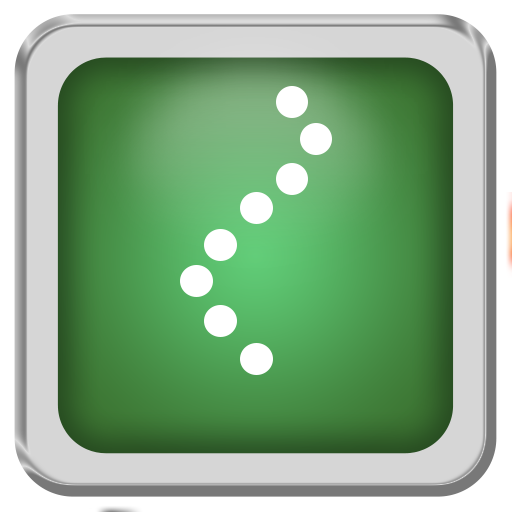
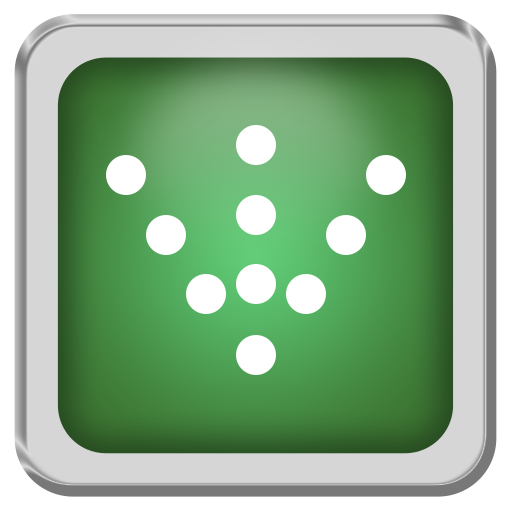
Bonuses with durations in HUD

diff --git a/Starfighter4K/src/menu/BonusWidget.cpp b/Starfighter4K/src/menu/BonusWidget.cpp
@@ -1,18 +1,22 @@
 #include "include/menu/BonusWidget.h"
 #include "include/game/BonusProjectile.h"
 #include "include/game/Bonus.h"
+#include "include/game/BonusInvicibility.h"
 #include "include/game/SpecialBonus.h"
+#include "include/game/SpecialBonusLimitedTime.h"
+#include "include/game/SpecialBonusLimitedUsage.h"
 #include "include/config/Define.h"
 #include "include/stable.h"
 
 BonusWidget::BonusWidget(QWidget *parent)
-    : QLabel(parent), cooldown(-1), state(NoBonus), bonusDuration(-1)
+    : QLabel(parent), cooldown(-1), state(NoBonus), bonusDuration(-1), initialActivations(1), remainingActivations(1)
 {
     setPixmap(QPixmap(IMAGE_BONUS));
 
     clock.setInterval(100);
     clock.setSingleShot(false);
     connect(&clock, SIGNAL(timeout()), this, SLOT(updateWidget()));
+    clock.start();
 }
 
 BonusWidget::~BonusWidget()
@@ -26,9 +30,12 @@ void BonusWidget::activate()
         return;
 
     if(bonusDuration != -1)
+    {
         elapsed.start();
-
-    state = Activated;
+        state = Activated;
+    }
+    else if(--remainingActivations <= 0)
+        deactivate();
 }
 
 void BonusWidget::deactivate()
@@ -37,6 +44,8 @@ void BonusWidget::deactivate()
     {
         setPixmap(QPixmap(IMAGE_BONUS));
         state = NoBonus;
+        bonusDuration = -1;
+        remainingActivations = 1;
     }
     else
     {
@@ -48,6 +57,7 @@ void BonusWidget::deactivate()
 void BonusWidget::setBonus(Bonus *bonus)
 {
     TypeBonus type = bonus->getTypeBonus();
+    //qDebug() << "Type : " << type;
 
     switch(type)
     {
@@ -55,10 +65,14 @@ void BonusWidget::setBonus(Bonus *bonus)
         setPixmap(QPixmap(IMAGE_BONUS_HEALTH));
         break;
     case TypeBonusInvicibility:
+        bonusDuration = ((BonusInvicibility*)bonus)->getExpiration();
         setPixmap(QPixmap(IMAGE_BONUS_INVICIBILITY));
         break;
     case TypeBonusShield:
         setPixmap(QPixmap(IMAGE_BONUS_SHIELD));
+        break;
+    case TypeBonusProjectile:
+        setBonus(dynamic_cast<BonusProjectile*>(bonus));
         break;
     default:
         setPixmap(QPixmap(IMAGE_BONUS));
@@ -70,17 +84,18 @@ void BonusWidget::setBonus(Bonus *bonus)
 
 void BonusWidget::setBonus(BonusProjectile *bonus)
 {
-    TypeBonus type = bonus->getTypeBonus();
+    TypeProjectiles type = bonus->getType();
+    //qDebug() << "Type projectile : " << type;
 
     switch(type)
     {
-    case TypeBonusProjectileCross:
+    case ProjCross:
         setPixmap(QPixmap(IMAGE_BONUS_PROJ_CROSS));
         break;
-    case TypeBonusProjectileSimple:
+    case ProjSimple:
         setPixmap(QPixmap(IMAGE_BONUS_PROJ_SIMPLE));
         break;
-    case TypeBonusProjectileV:
+    case ProjV:
         setPixmap(QPixmap(IMAGE_BONUS_PROJ_V));
         break;
     default:
@@ -89,12 +104,24 @@ void BonusWidget::setBonus(BonusProjectile *bonus)
     }
 
     bonusDuration = bonus->getExpiration();
+    //qDebug() << "Duration : " << bonusDuration;
     state = Ready;
 }
 
-void BonusWidget::setBonus(SpecialBonus *bonus, int cooldown)
+void BonusWidget::setBonus(SpecialBonus *bonus)
 {
-    this->cooldown = cooldown;
+    this->cooldown = bonus->getCooldownTime();
+    //qDebug() << "Special bonus cooldown : " << cooldown;
+
+    SpecialBonusLimitedTime* sblt = dynamic_cast<SpecialBonusLimitedTime*>(bonus);
+    if(sblt)
+        this->bonusDuration = sblt->getDuration();
+    else
+    {
+        SpecialBonusLimitedUsage* sblu = dynamic_cast<SpecialBonusLimitedUsage*>(bonus);
+        if(sblu)
+            remainingActivations = initialActivations = sblu->getInitialActivation();
+    }
 
     TypeSpecialBonus type = bonus->getTypeBonus();
     switch(type)
@@ -103,17 +130,15 @@ void BonusWidget::setBonus(SpecialBonus *bonus, int cooldown)
         setPixmap(QPixmap(IMAGE_BONUS_FREEZE));
         break;
     case TypeSpecialBonusAntiGravity:
-        // TODO: Create the image
-        //setPixmap(QPixmap(IMAGE_BONUS_ANTIGRAVITY));
-        //break;
+        setPixmap(QPixmap(IMAGE_BONUS_ANTIGRAVITY));
+        break;
     case TypeSpecialBonusGuidedMissile:
         // TODO: Create the image
         //setPixmap(QPixmap(IMAGE_BONUS_GUIDEDMISSILE));
         //break;
     case TypeSpecialBonusOmnidirectionalShot:
-        // TODO: Create the image
-        //setPixmap(QPixmap(IMAGE_BONUS_OMNIDIRECTIONALSHOT));
-        //break;
+        setPixmap(QPixmap(IMAGE_BONUS_ROOTSHOT));
+        break;
     case TypeSpecialBonusTrackingMissile:
         // TODO: Create the image
         //setPixmap(QPixmap(IMAGE_BONUS_TRACKINGMISSILE));
@@ -131,25 +156,35 @@ void BonusWidget::paintEvent(QPaintEvent *event)
 {
     QLabel::paintEvent(event);
 
-    if(state == Cooldown || state == Activated && bonusDuration != -1)
+    if(state == Cooldown || state == Activated)
     {
         QPainter p(this);
-        p.setBrush(QBrush(QColor(0, 0, 0, 127)));
+        if(state == Activated)
+            p.setBrush(QBrush(QColor(0, 0, 255, 127)));
+        else
+            p.setBrush(QBrush(QColor(0, 0, 0, 127)));
 
         const int offset = 59;
         QRect r(rect().left() + offset, rect().top() + offset, rect().width() - offset*2, rect().height() - offset*2);
         double percent;
         if(state == Cooldown)
-            percent = (cooldown - elapsed.elapsed()) / cooldown * 100.0;
-        else
-            percent = elapsed.elapsed() / bonusDuration * 100.0;
+            percent = (cooldown - elapsed.elapsed()) / (double)cooldown * 100.0;
+        else if(state == Activated)
+        {
+            if(bonusDuration == -1)
+                percent = remainingActivations / (double)initialActivations * 100.0;
+            else
+                percent = elapsed.elapsed() / (double)bonusDuration * 100.0;
+        }
+
+        //qDebug() << percent;
         p.drawPie(r, 90 * 16, 90.0 + -1.0 * percent * 3.6 * 16.0);
     }
 }
 
 void BonusWidget::updateWidget()
 {
-    if(state == Activated && elapsed.hasExpired(bonusDuration))
+    if(state == Activated && bonusDuration != -1 && elapsed.hasExpired(bonusDuration))
         deactivate();
     else if(state == Cooldown && elapsed.hasExpired(cooldown))
         state = Ready;

diff --git a/Starfighter4K/src/game/Spaceship.cpp b/Starfighter4K/src/game/Spaceship.cpp
@@ -37,6 +37,7 @@
 #include "include/game/ProjectileMulti.h"
 #include "include/game/SpecialBonusMulti.h"
 #include "include/game/SpecialBonusGuided.h"
+#include "include/game/SpecialBonusFreeze.h"
 #include "include/game/ProjectileGuided.h"
 #include "include/config/Define.h"
 
@@ -64,7 +65,7 @@ Spaceship::Spaceship(qreal _dX,qreal _dY,Shooter _player,const QString& _playerN
     if(player == Player1)
         specialBonus = new SpecialBonusAntiGravity(10000,1,Player1,gameEngine);
     else
-        specialBonus = new SpecialBonusAntiGravity(10000,1,Player2,gameEngine);
+        specialBonus = new SpecialBonusMulti(10000,5,this,gameEngine);
 
     //specialBonus = new SpecialBonusTracking(10000,2,this,gameEngine);
 
@@ -79,6 +80,9 @@ Spaceship::Spaceship(qreal _dX,qreal _dY,Shooter _player,const QString& _playerN
         dAngle = M_PI;
     timerProjectile->setSingleShot(true);
     connect(timerProjectile,SIGNAL(timeout()),this,SLOT(removeProjectileBonus()));
+
+    hud = gameEngine->displayEngine()->getHud();
+    hud->setSpecialBonus(player, specialBonus);
 }
 
 void Spaceship::setPixmap(QPixmap *_pxmPixmap)
@@ -145,7 +149,10 @@ qreal Spaceship::getPercentageSpeed() const
 void Spaceship::addBonus(Bonus *_bonus)
 {
     if(bonus == 0)
+    {
         bonus = _bonus;
+        hud->setNormalBonus(player, bonus);
+    }
 }
 
 void Spaceship::shotTrackingBonus()
@@ -176,7 +183,7 @@ void Spaceship::triggerBonus()
 {
     if(bonus != 0 && !isInvicible && type == PROJ_SPACESHIP_DEF)
     {
-        gameEngine->displayEngine()->getHud()->setNormalBonus(player, bonus);
+        hud->activateBonus(player, NormalBonus);
 
         if(BonusHP* bhp = dynamic_cast<BonusHP*>(bonus))
         {
@@ -329,4 +336,5 @@ void Spaceship::advance(int _step)
 void Spaceship::triggerSpecialAttack()
 {
     specialBonus->trigger();
+    hud->activateBonus(player, aSpecialBonus);
 }

diff --git a/Starfighter4K/src/menu/HUDWidget.cpp b/Starfighter4K/src/menu/HUDWidget.cpp
@@ -125,9 +125,27 @@ void HUDWidget::setNormalBonus(Shooter _player, Bonus* _bonus)
 void HUDWidget::setSpecialBonus(Shooter _player, SpecialBonus* _bonus)
 {
     if(_player == Player1)
-        ui->p1_specialBonus->setBonus(_bonus, 2000); // TODO: cooldown
+        ui->p1_specialBonus->setBonus(_bonus); // TODO: cooldown
     else
-        ui->p2_specialBonus->setBonus(_bonus, 2000);
+        ui->p2_specialBonus->setBonus(_bonus);
+}
+
+void HUDWidget::activateBonus(Shooter _player, Action _typeBonus)
+{
+    if(_typeBonus == NormalBonus)
+    {
+        if(_player == Player1)
+            ui->p1_normalBonus->activate();
+        else if(_player == Player2)
+            ui->p2_normalBonus->activate();
+    }
+    else if(_typeBonus == aSpecialBonus)
+    {
+        if(_player == Player1)
+            ui->p1_specialBonus->activate();
+        else if(_player == Player2)
+            ui->p2_specialBonus->activate();
+    }
 }
 
 void HUDWidget::deactivateBonus(Shooter _player, Action _typeBonus)

diff --git a/Starfighter4K/include/menu/BonusWidget.h b/Starfighter4K/include/menu/BonusWidget.h
@@ -24,7 +24,7 @@ public:
     BonusWidget(QWidget *parent = 0);
     ~BonusWidget();
     void setBonus(Bonus* bonus);
-    void setBonus(SpecialBonus* bonus, int cooldown);
+    void setBonus(SpecialBonus* bonus);
     void setBonus(BonusProjectile* bonus);
 
 protected:
@@ -34,7 +34,9 @@ private:
     QElapsedTimer elapsed;
     QTimer clock;
     int cooldown; // (ms)
-    int bonusDuration;
+    int bonusDuration; // (ms), -1 = Limited usages
+    int initialActivations;
+    int remainingActivations;
     BonusState state;
 
 public slots:

diff --git a/Starfighter4K/include/config/Define.h b/Starfighter4K/include/config/Define.h
@@ -152,6 +152,8 @@
 #define SUPERNOVA_SOUND                     "supernova.mp3"
 
 //HUD
+#define IMAGE_BONUS_ANTIGRAVITY     ":/images/bonus/antiGravity"
+#define IMAGE_BONUS_ROOTSHOT        ":/images/bonus/projRoot"
 #define IMAGE_BONUS_FREEZE          ":/images/bonus/freeze"
 #define IMAGE_BONUS_INVICIBILITY    ":/images/bonus/invicibility"
 #define IMAGE_BONUS_HEALTH          ":/images/bonus/medic"

diff --git a/Starfighter4K/include/game/Spaceship.h b/Starfighter4K/include/game/Spaceship.h
@@ -20,6 +20,7 @@ class GameEngine;
 class QTimer;
 class SpecialBonus;
 class ProjectileGuided;
+class HUDWidget;
 
 class Spaceship : public Destroyable, public Displayable
 {
@@ -75,6 +76,7 @@ private:
     void advance(int _step);
 
     GameEngine *gameEngine;
+    HUDWidget* hud;
 
     Shooter player;
 	QString playerName;

diff --git a/Starfighter4K/include/menu/HUDWidget.h b/Starfighter4K/include/menu/HUDWidget.h
@@ -25,6 +25,7 @@ public:
     void setNormalBonus(Shooter _player, Bonus* _type);
     void setSpecialBonus(Shooter _player, SpecialBonus* _type);
     void setTimer(QTime _time);
+    void activateBonus(Shooter _player, Action _typeBonus);
     void deactivateBonus(Shooter _player, Action _typeBonus);
     
 private:

diff --git a/Starfighter4K/include/enum/Enum.h b/Starfighter4K/include/enum/Enum.h
@@ -47,9 +47,6 @@ enum TypeBonus
     TypeBonusProjectile         = 1,
     TypeBonusInvicibility       = 2,
     TypeBonusShield             = 3,
-    TypeBonusProjectileCross    = 4,
-    TypeBonusProjectileV        = 5,
-    TypeBonusProjectileSimple   = 6,
     TypeBonusNothing            = 1000
 };
 

diff --git a/Starfighter4K/include/game/SpecialBonusLimitedTime.h b/Starfighter4K/include/game/SpecialBonusLimitedTime.h
@@ -10,6 +10,7 @@ public:
     SpecialBonusLimitedTime(TypeSpecialBonus bonus, int _duration, int _timeToWait, GameEngine* ge);
     virtual ~SpecialBonusLimitedTime(){}
 
+    int getDuration() { return duration; }
     virtual void trigger() = 0;
 
 protected slots:

diff --git a/Starfighter4K/include/game/SpecialBonusLimitedUsage.h b/Starfighter4K/include/game/SpecialBonusLimitedUsage.h
@@ -11,6 +11,8 @@ public:
     virtual ~SpecialBonusLimitedUsage(){}
 
     virtual void trigger() = 0;
+    int getNbActivation() { return nbActivation; }
+    int getInitialActivation() { return initialActivation; }
 
 public slots:
     void refill();

diff --git a/Starfighter4K/include/game/SpecialBonus.h b/Starfighter4K/include/game/SpecialBonus.h
@@ -14,6 +14,7 @@ public:
     virtual void trigger() = 0;
 
     TypeSpecialBonus getTypeBonus() const {return bonus;}
+    int getCooldownTime() { return timeToWait; }
 
 protected:
     GameEngine* ge;
